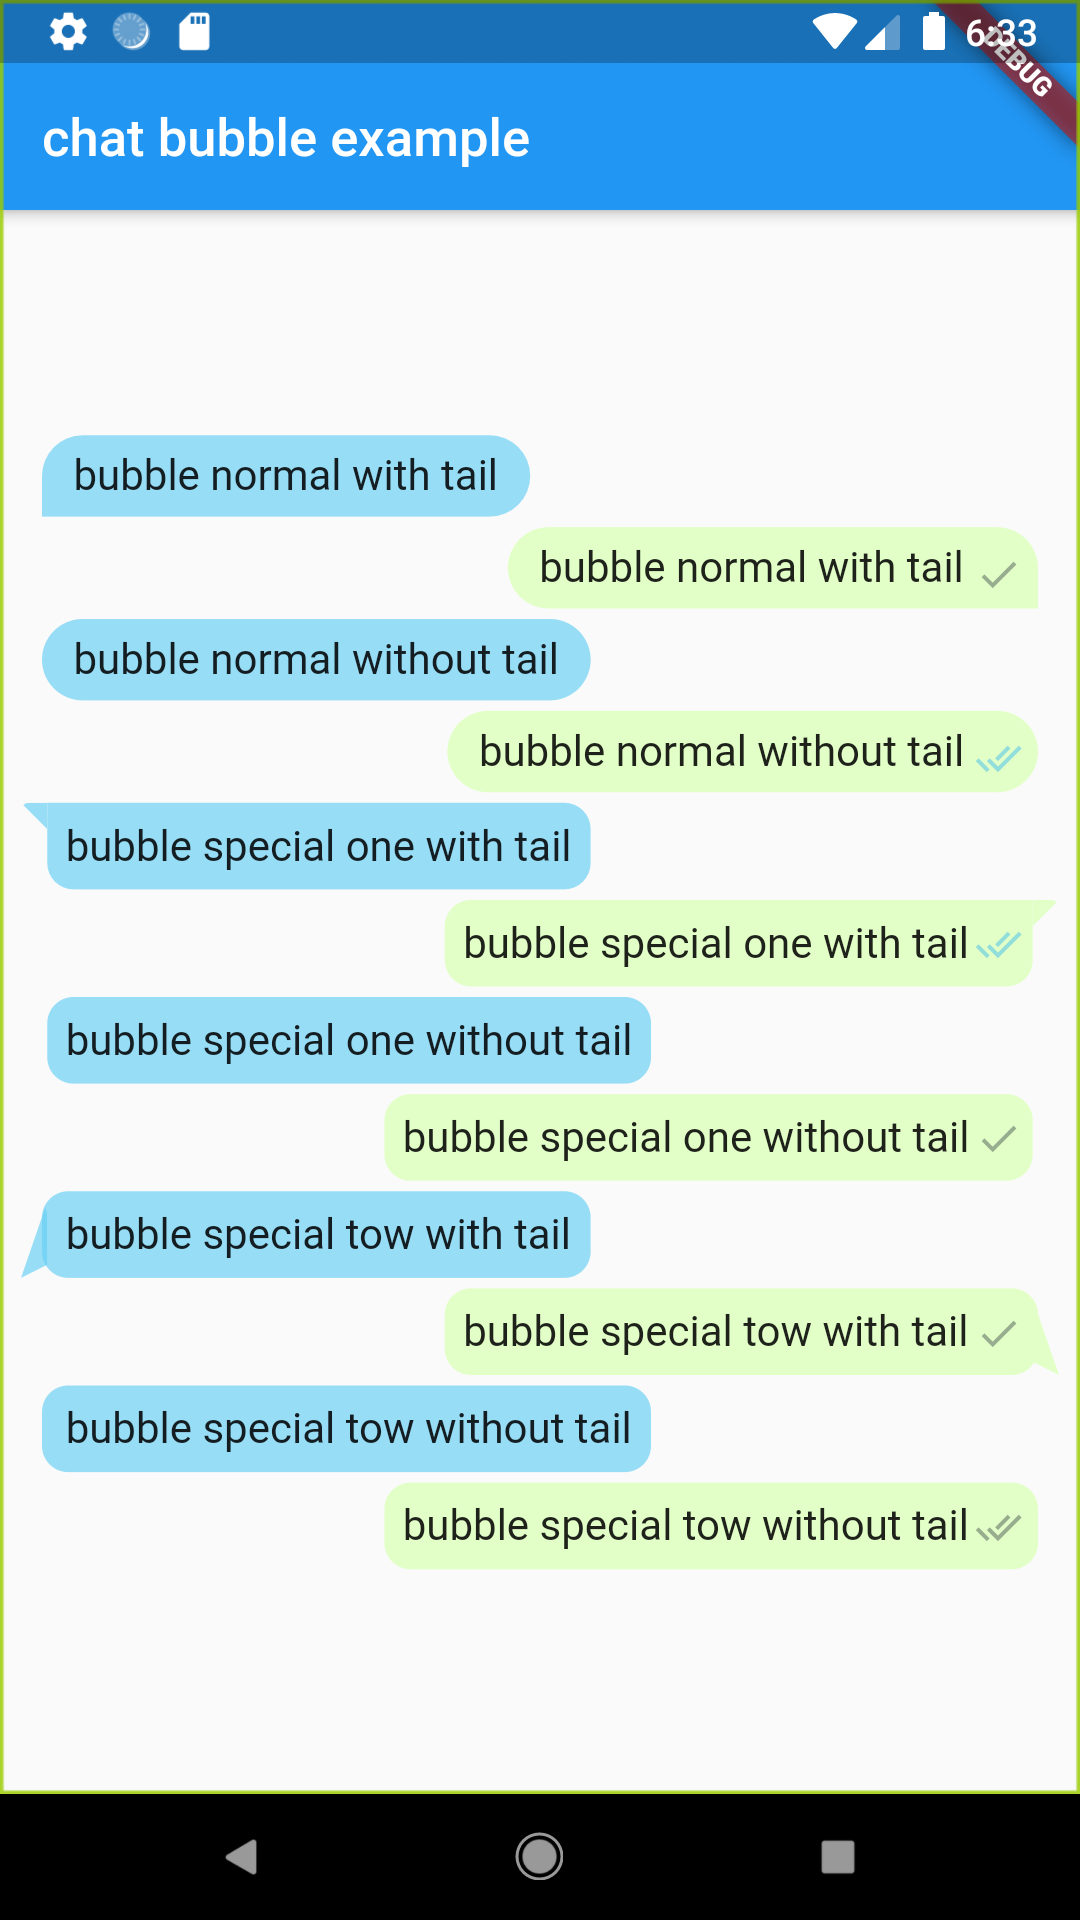
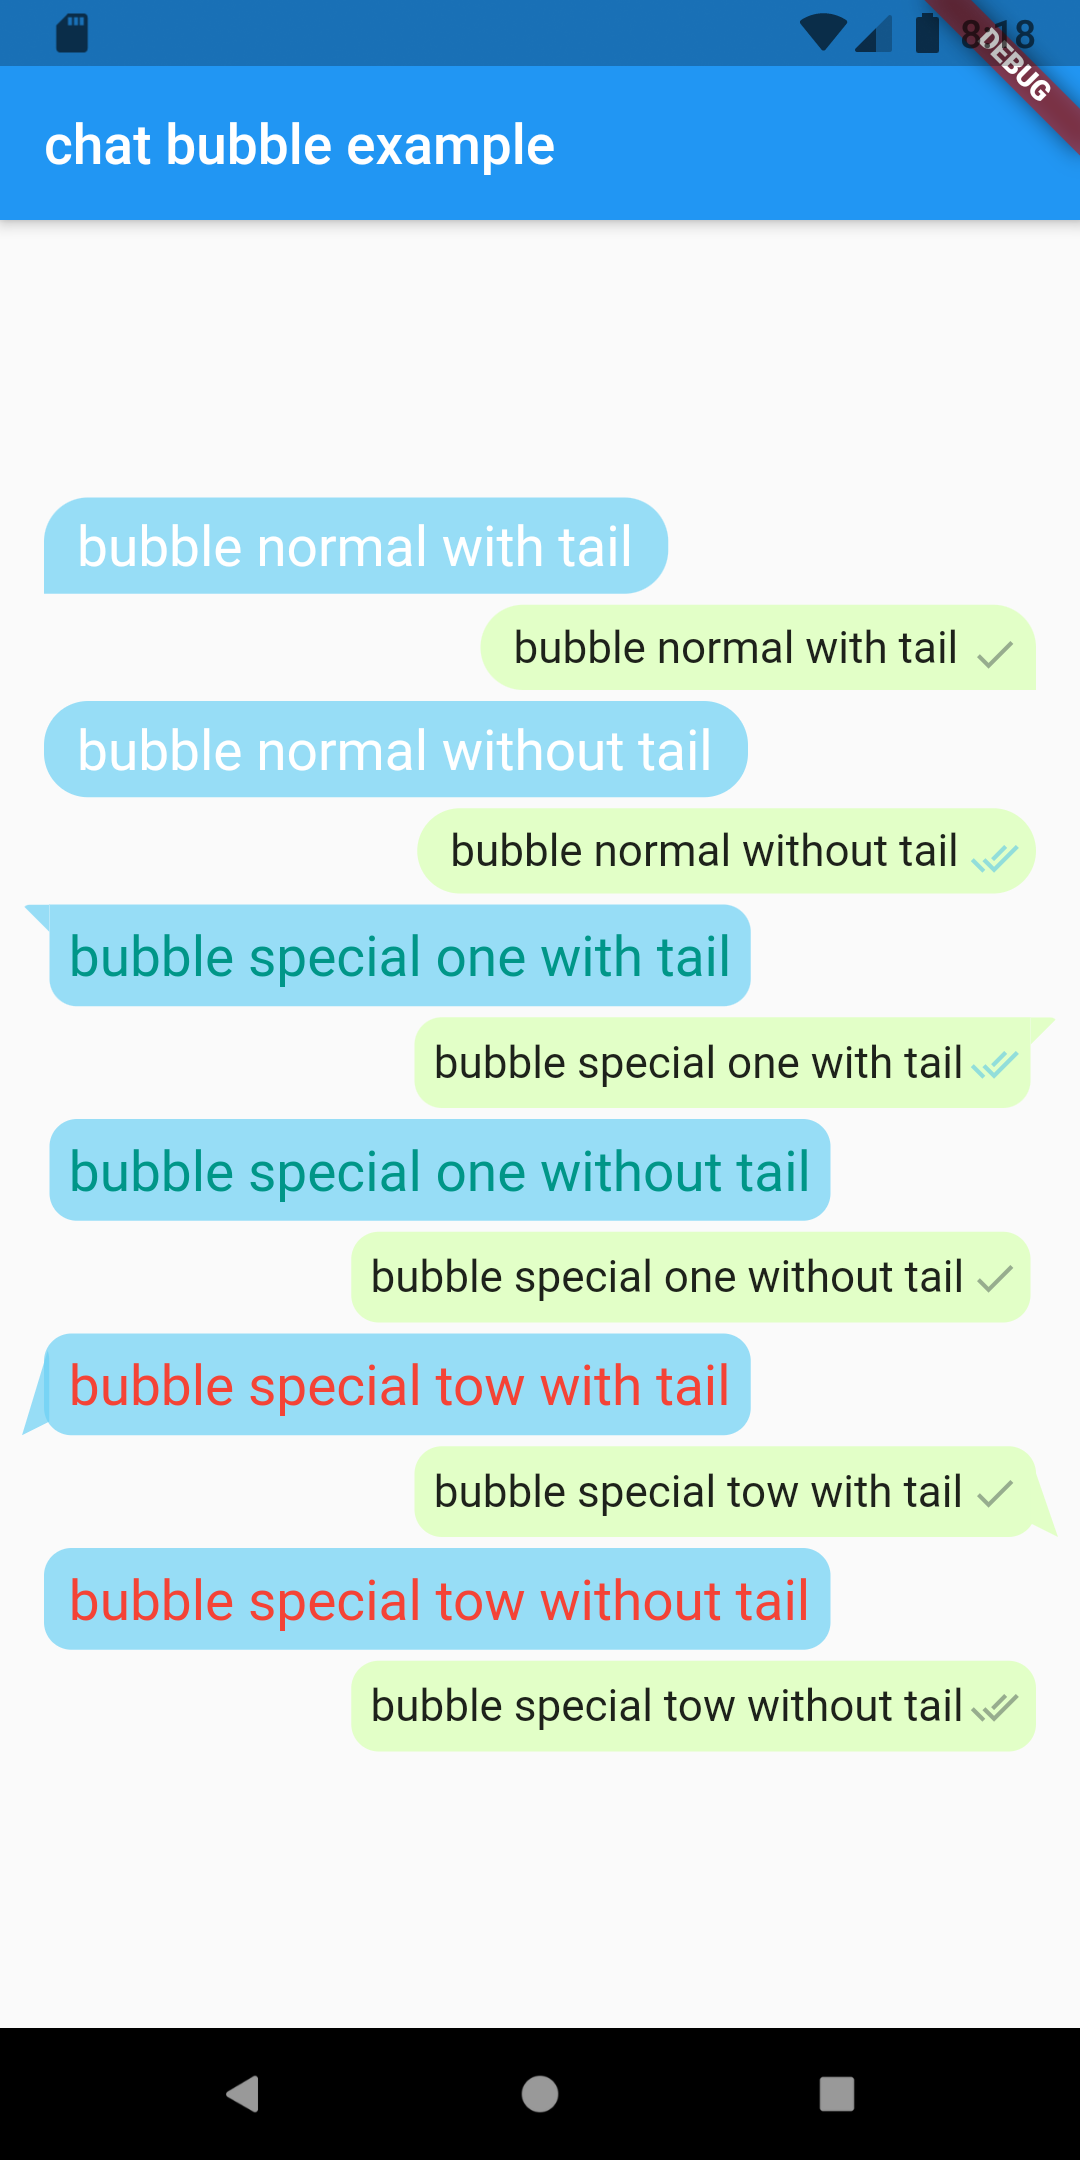
update examples

Changed region(s): [[0.0, 0.0, 1.0, 1.0]]

diff --git a/README.md b/README.md
@@ -1,6 +1,6 @@
 # chat_bubbles plugin
 
-Chat bubble widgets, similar to the Whatsapp and more shapes. Easy to use and implement chat bubbles.
+Flutter chat bubble widgets, similar to the Whatsapp and more shapes. Easy to use and implement chat bubbles.
 
 ## Getting Started
 
@@ -23,81 +23,125 @@ Now you can use this plugin to implement various types of Chat Bubbles.
 
 ## Example
 
-<img src="https://github.com/prahack/chat_bubbles/blob/master/images/screenshots/screenshot_1.png?raw=true"  width="250" height="450" />
+### Single bubble example
 
+<img src="https://github.com/prahack/chat_bubbles/blob/master/images/screenshots/single_bubble.png?raw=true"  width="200" height="60" />
+
+
+```dart
+  BubbleSpecialOne(
+    text: 'Hi, How are you? ',
+    isSender: false,
+    color: Colors.purple.shade100,
+    textStyle: TextStyle(
+      fontSize: 20,
+      color: Colors.purple,
+      fontStyle: FontStyle.italic,
+      fontWeight: FontWeight.bold,
+    ),
+  ),
+```
+
+### Main example (Chat View)
+
+<img src="https://github.com/prahack/chat_bubbles/blob/master/images/screenshots/screenshot_1.png?raw=true"  width="250" height="450" />
 
 
 ```dart
    BubbleNormal(
-    text: 'bubble normal with tail',
-    isSender: false,
-    color: Color(0xAF6AD0F5),
-    tail: true,
-  ),
-  BubbleNormal(
-    text: 'bubble normal with tail',
-    isSender: true,
-    color: Color(0xFFE2FFC7),
-    tail: true,
-    sent: true,
-  ),
-  BubbleNormal(
-    text: 'bubble normal without tail',
-    isSender: false,
-    color: Color(0xAF6AD0F5),
-    tail: false,
-  ),
-  BubbleNormal(
-    text: 'bubble normal without tail',
-    color: Color(0xFFE2FFC7),
-    tail: false,
-    seen: true,
-  ),
-  BubbleSpecialOne(
-    text: 'bubble special one with tail',
-    isSender: false,
-    color: Color(0xAF6AD0F5),
-  ),
-  BubbleSpecialOne(
-    text: 'bubble special one with tail',
-    color: Color(0xFFE2FFC7),
-    seen: true,
-  ),
-  BubbleSpecialOne(
-    text: 'bubble special one without tail',
-    isSender: false,
-    tail: false,
-    color: Color(0xAF6AD0F5),
-  ),
-  BubbleSpecialOne(
-    text: 'bubble special one without tail',
-    tail: false,
-    color: Color(0xFFE2FFC7),
-    sent: true,
-  ),
-  BubbleSpecialTwo(
-    text: 'bubble special tow with tail',
-    isSender: false,
-    color: Color(0xAF6AD0F5),
-  ),
-  BubbleSpecialTwo(
-    text: 'bubble special tow with tail',
-    isSender: true,
-    color: Color(0xFFE2FFC7),
-    sent: true,
-  ),
-  BubbleSpecialTwo(
-    text: 'bubble special tow without tail',
-    isSender: false,
-    tail: false,
-    color: Color(0xAF6AD0F5),
-  ),
-  BubbleSpecialTwo(
-    text: 'bubble special tow without tail',
-    tail: false,
-    color: Color(0xFFE2FFC7),
-    delivered: true,
-  )
+      text: 'bubble normal with tail',
+      isSender: false,
+      color: Color(0xAF6AD0F5),
+      tail: true,
+      textStyle: TextStyle(
+        fontSize: 20,
+        color: Colors.white,
+      ),
+    ),
+    BubbleNormal(
+      text: 'bubble normal with tail',
+      isSender: true,
+      color: Color(0xFFE2FFC7),
+      tail: true,
+      sent: true,
+    ),
+    BubbleNormal(
+      text: 'bubble normal without tail',
+      isSender: false,
+      color: Color(0xAF6AD0F5),
+      tail: false,
+      textStyle: TextStyle(
+        fontSize: 20,
+        color: Colors.white,
+      ),
+    ),
+    BubbleNormal(
+      text: 'bubble normal without tail',
+      color: Color(0xFFE2FFC7),
+      tail: false,
+      seen: true,
+    ),
+    BubbleSpecialOne(
+      text: 'bubble special one with tail',
+      isSender: false,
+      color: Color(0xAF6AD0F5),
+      textStyle: TextStyle(
+        fontSize: 20,
+        color: Colors.teal,
+      ),
+    ),
+    BubbleSpecialOne(
+      text: 'bubble special one with tail',
+      color: Color(0xFFE2FFC7),
+      seen: true,
+    ),
+    BubbleSpecialOne(
+      text: 'bubble special one without tail',
+      isSender: false,
+      tail: false,
+      color: Color(0xAF6AD0F5),
+      textStyle: TextStyle(
+        fontSize: 20,
+        color: Colors.teal,
+      ),
+    ),
+    BubbleSpecialOne(
+      text: 'bubble special one without tail',
+      tail: false,
+      color: Color(0xFFE2FFC7),
+      sent: true,
+    ),
+    BubbleSpecialTwo(
+      text: 'bubble special tow with tail',
+      isSender: false,
+      color: Color(0xAF6AD0F5),
+      textStyle: TextStyle(
+        fontSize: 20,
+        color: Colors.red,
+      ),
+    ),
+    BubbleSpecialTwo(
+      text: 'bubble special tow with tail',
+      isSender: true,
+      color: Color(0xFFE2FFC7),
+      sent: true,
+    ),
+    BubbleSpecialTwo(
+      text: 'bubble special tow without tail',
+      isSender: false,
+      tail: false,
+      color: Color(0xAF6AD0F5),
+      textStyle: TextStyle(
+        fontSize: 20,
+        color: Colors.red,
+      ),
+    ),
+    BubbleSpecialTwo(
+      text: 'bubble special tow without tail',
+      tail: false,
+      color: Color(0xFFE2FFC7),
+      delivered: true,
+    ),
 ```
 
 ## Issues
